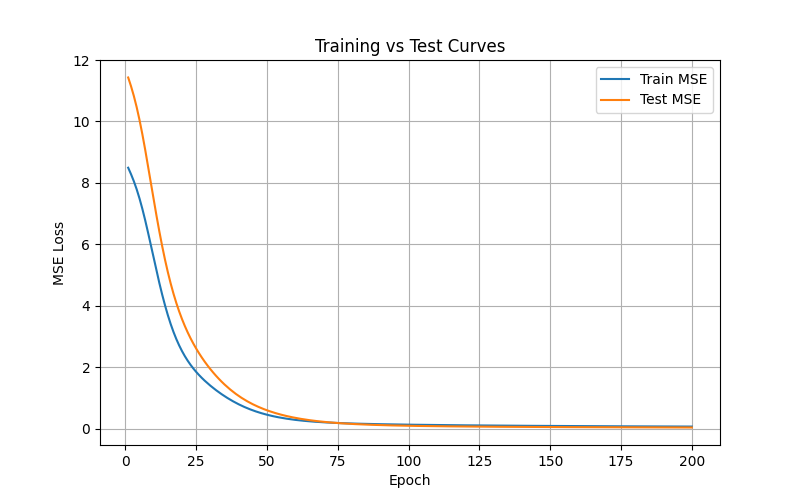
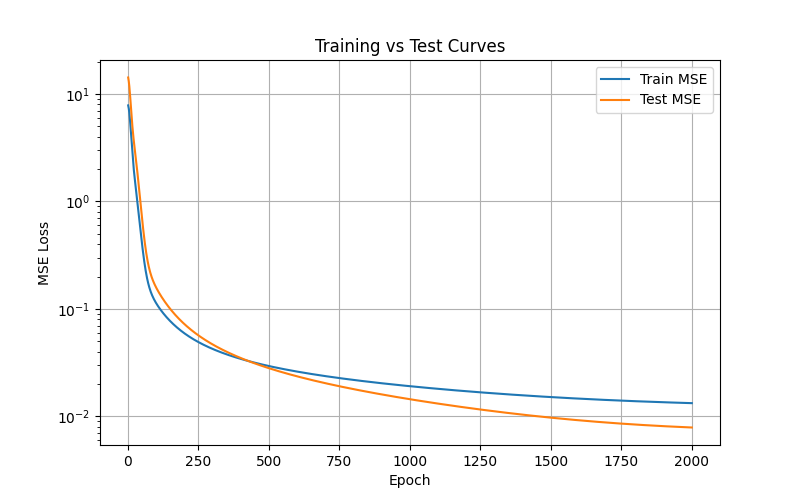
need to work on fixing the graph. It seems wrong

diff --git a/Week_8/behler_neural_network.py b/Week_8/behler_neural_network.py
@@ -71,13 +71,13 @@ class AtomicNetwork:
     def __init__(self, num_inputs, num_hidden):  # Eqn 1 is being coded out here
         
         self.input_to_hidden_weights=[
-            [random.uniform(-0.1, 0.1) for _ in range(num_inputs)]
-            for _ in range(num_hidden)
+            [random.uniform(-0.1, 0.1) for i in range(num_inputs)]
+            for i in range(num_hidden)
         ]
         
-        self.hidden_biases = [0.0 for _ in range(num_hidden)]
+        self.hidden_biases = [0.0 for i in range(num_hidden)]
         self.hidden_to_output_weights = [
-            random.uniform(-0.1, 0.1) for _ in range(num_hidden)
+            random.uniform(-0.1, 0.1) for i in range(num_hidden)
         ]
         self.output_bias = 0.0
 
@@ -114,6 +114,7 @@ class AtomicNetwork:
         inputs = cache["inputs"]
         dW_input = [[dz * x for x in inputs] for dz in dL_d_hidden_linear]
         db_hidden = dL_d_hidden_linear
+        
         for j in range(len(self.hidden_to_output_weights)):
             self.hidden_to_output_weights[j] -= learning_rate * dW_output[j]
         self.output_bias -= learning_rate * db_output
@@ -167,29 +168,40 @@ import pandas as pd
 import matplotlib.pyplot as plt
 
 train_files = [
-    "3particles.csv",
-    "./harmonic_chain_4particles.csv",
-    "./harmonic_chain_5particles.csv",
-    "./harmonic_chain_2particles.csv"
+    # "./3particles.csv",
+    # "./harmonic_chain_5particles.csv",
+    "./harmonic_chain_2particles.csv",
+    # "./harmonic_chain_6particles.csv",
+    # "./harmonic_chain_4particles.csv",
 ]
-test_file = "./harmonic_chain_6particles.csv"
+test_file = ""
 
-train_samples = []
+all_samples = []
 for f in train_files:
-    df = pd.read_csv(f, header=None, nrows=3)
-    t  = df.iloc[0].tolist()
-    n  = df.iloc[1].tolist()
-    E  = df.iloc[2].tolist()
+    df = pd.read_csv(f, header=None)
+    t  = df[0].tolist()
+    n  = df[1].tolist()
+    E  = df[2].tolist()
+
     for ti, ni, Ei in zip(t, n, E):
-        train_samples.append({"x": [float(ti), float(ni)], "E": float(Ei)})
+        all_samples.append({"x": [float(ti), float(ni)], "E": float(Ei)})
 
-df = pd.read_csv(test_file, header=None, nrows=3)
-t  = df.iloc[0].tolist()
-n  = df.iloc[1].tolist()
-E  = df.iloc[2].tolist()
-test_samples = [{"x": [float(ti), float(ni)], "E": float(Ei)} for ti, ni, Ei in zip(t, n, E)]
 
-def init_direct_model(num_hidden=10):
+split_idx = int(0.8 * len(all_samples))
+
+print("Length of all  :", len(all_samples)) #
+
+
+train_samples = all_samples[:split_idx]
+test_samples  = all_samples[split_idx:]
+
+print("Length of train :", len(train_samples)) #
+print("Length of test :", len(test_samples)) #
+
+
+
+
+def init_direct_model(num_hidden=50):
     return AtomicNetwork(num_inputs=2, num_hidden=num_hidden)
 
 def forward_energy(net, x):
@@ -213,9 +225,9 @@ def evaluate(net, test_samples):
         total += diff * diff
     return total / len(test_samples)
 
-net = init_direct_model(num_hidden=10)
-epochs = 200
-lr = 1e-3
+net = init_direct_model(num_hidden=100)
+epochs = 1000
+lr = 1e-5
 
 train_curve = []
 test_curve  = []
@@ -226,15 +238,16 @@ for ep in range(1, epochs+1):
     train_curve.append(train_mse)
     test_curve.append(test_mse)
     if ep % 20 == 0:
-        print(f"epoch {ep:3d} | train MSE {train_mse:.6f} | test MSE {test_mse:.6f}")
+        print(f"epoch {ep:3d} | train MSE {train_mse:.16f} | test MSE {test_mse:.16f}")
 
 plt.figure(figsize=(8,5))
 plt.plot(range(1, epochs+1), train_curve, label="Train MSE")
 plt.plot(range(1, epochs+1), test_curve, label="Test MSE")
 plt.xlabel("Epoch")
 plt.ylabel("MSE Loss")
+# plt.yscale('log')
 plt.title("Training vs Test Curves")
 plt.legend()
 plt.grid(True)
-plt.savefig("./loss_learn_curves.png")
+plt.savefig("./loss_learn_curves_1.png")
 plt.show()

diff --git a/Week_8/behler_edits.py b/Week_8/behler_edits.py
@@ -1,0 +1,11 @@
+import pandas as pd
+import matplotlib.pyplot as plt
+f= "./harmonic_chain_2particles.csv"
+df = pd.read_csv(f, header=None)
+
+df["diff"]= df[3]-df[4]
+
+print(df)
+df.plot( y = 'diff')
+
+plt.show()

diff --git a/Week_8/md_2_particles.py b/Week_8/md_2_particles.py
@@ -77,7 +77,7 @@ v_min = 0.0
 
 
 
-snapshots_target = 2000
+snapshots_target = 8000
 snapshots_written = 0
 run_id = 0
 
